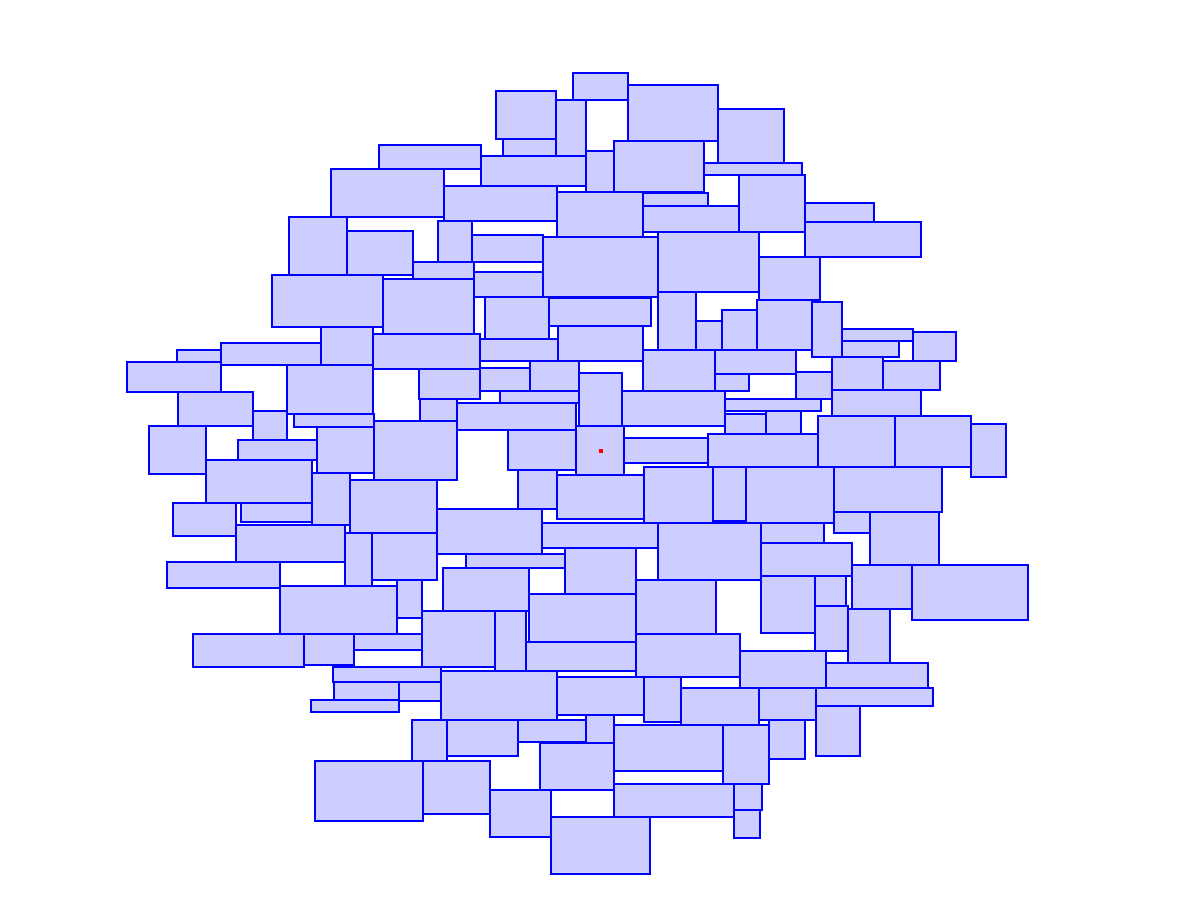
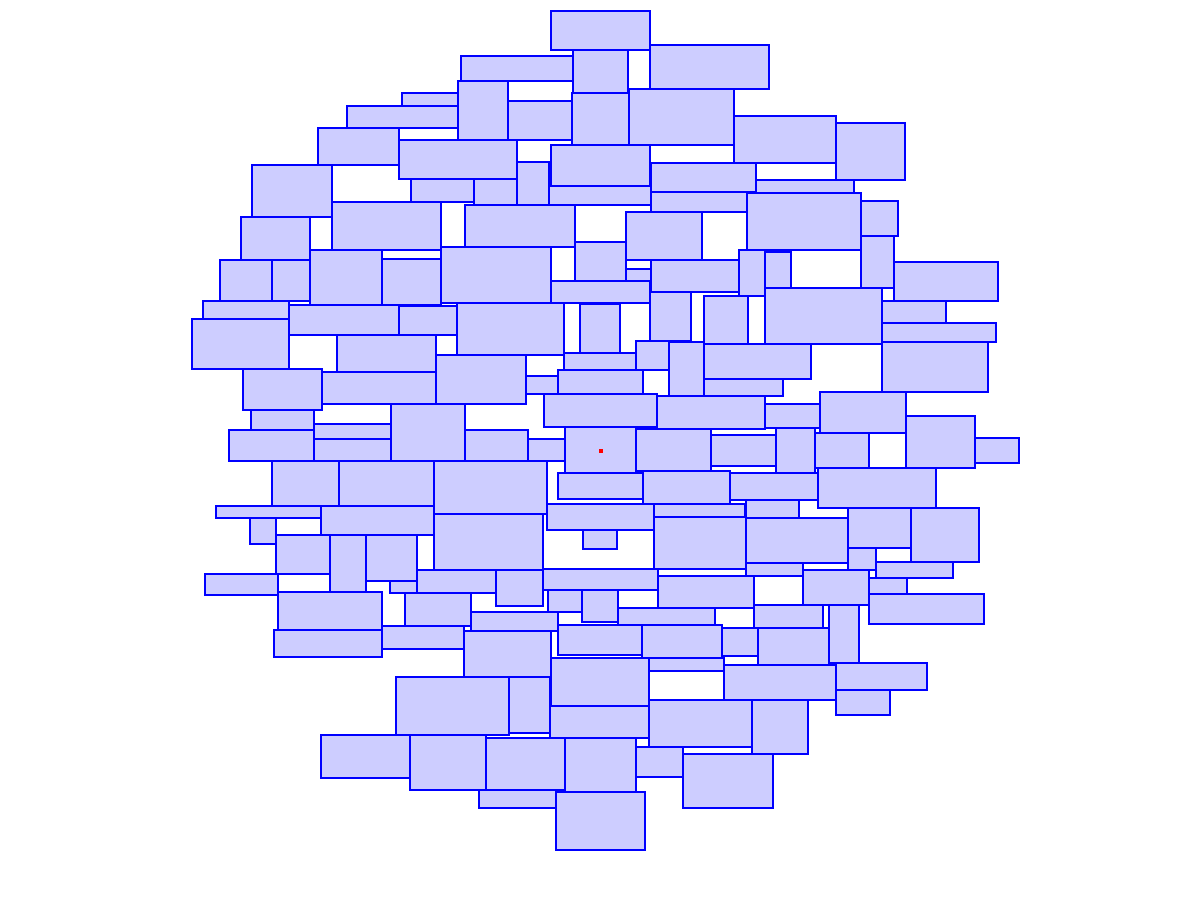
fix TagCloudVisualizer

Changed region(s): [[0.0925, 0.0, 0.8633, 0.9956]]

diff --git a/cs/TagCloud/TagsCloudVisualization/TagCloudVisualizer.cs b/cs/TagCloud/TagsCloudVisualization/TagCloudVisualizer.cs
@@ -2,42 +2,53 @@
 
 namespace TagsCloudVisualization;
 
-public class TagCloudVisualizer
+public class TagCloudVisualizer : IVisualizer
 {
-    private readonly string _outputDirectory;
-    private readonly Func<string, Size, Color?, Color?, Color?, ImageGenerator> _imageGeneratorFactory;
+    private const int DefaultWidth = 800;
+    private const int DefaultHeight = 600;
+    private const int Padding = 200;
+    
+    private readonly TagCloudVisualizeConfig _config;
+    private readonly IImageSaver _imageSaver;
 
-    public TagCloudVisualizer(string outputDirectory)
+    public TagCloudVisualizer(TagCloudVisualizeConfig config, IImageSaver imageSaver)
     {
-        _outputDirectory = outputDirectory;
-        _imageGeneratorFactory =
-            (path, size, bg, rect, center) => new ImageGenerator(path, size, bg, rect, center);
-        Directory.CreateDirectory(_outputDirectory);
+        _config = config ?? throw new ArgumentNullException(nameof(config));
+        _imageSaver = imageSaver ?? throw new ArgumentNullException(nameof(imageSaver));
     }
 
-    public string SaveLayoutVisualization(IEnumerable<Rectangle> rectangles, Point center, string fileName, Size? customImageSize = null)
+    public Bitmap CreateVisualization(IEnumerable<Rectangle> rectangles, Point center, Size? imageSize = null)
     {
-        try
+        var actualImageSize = imageSize ?? CalculateOptimalImageSize(rectangles);
+        var bitmap = new Bitmap(actualImageSize.Width, actualImageSize.Height);
+        using var graphics = Graphics.FromImage(bitmap);
+        
+        graphics.Clear(_config.BackgroundColor);
+        
+        using var pen = new Pen(_config.RectangleColor, _config.PenWidth);
+        using var brush = new SolidBrush(Color.FromArgb(_config.RectangleFillAlpha, _config.RectangleColor));
+        
+        foreach (var rectangle in rectangles)
         {
-            var filePath = Path.Combine(_outputDirectory, fileName);
-            var imageSize = customImageSize ?? CalculateOptimalImageSize(rectangles);
-            
-            var visualizer = _imageGeneratorFactory(
-                filePath, 
-                imageSize, 
-                Color.White, 
-                Color.Blue, 
-                Color.Red
-            );
+            graphics.FillRectangle(brush, rectangle);
+            graphics.DrawRectangle(pen, rectangle);
+        }
+        
+        using var centerBrush = new SolidBrush(_config.CenterColor);
+        var centerRect = new Rectangle(
+            center.X - _config.CenterPointSize / 2, 
+            center.Y - _config.CenterPointSize / 2, 
+            _config.CenterPointSize, 
+            _config.CenterPointSize);
+        graphics.FillEllipse(centerBrush, centerRect);
+        
+        return bitmap;
+    }
 
-            visualizer.Visualize(rectangles, center);
-            
-            return Path.GetFullPath(filePath);
-        }
-        catch (Exception ex)
-        {
-            throw new InvalidOperationException($"Failed to save visualization: {ex.Message}", ex);
-        }
+    public string SaveVisualization(IEnumerable<Rectangle> rectangles, Point center, string fileName, Size? imageSize = null)
+    {
+        using var bitmap = CreateVisualization(rectangles, center, imageSize);
+        return _imageSaver.SaveBitmap(bitmap, fileName);
     }
 
     private Size CalculateOptimalImageSize(IEnumerable<Rectangle> rectangles)
@@ -45,22 +56,16 @@ public class TagCloudVisualizer
         var rectList = rectangles.ToList();
         
         if (!rectList.Any())
-            return new Size(800, 600);
+            return new Size(DefaultWidth, DefaultHeight);
 
         var minX = rectList.Min(r => r.Left);
         var maxX = rectList.Max(r => r.Right);
         var minY = rectList.Min(r => r.Top);
         var maxY = rectList.Max(r => r.Bottom);
 
-        var width = Math.Max(800, (maxX - minX) + 200);
-        var height = Math.Max(600, (maxY - minY) + 200);
+        var width = Math.Max(DefaultWidth, (maxX - minX) + Padding);
+        var height = Math.Max(DefaultHeight, (maxY - minY) + Padding);
 
         return new Size(width, height);
-    }
-
-    public string GenerateFileName(string fileName)
-    {
-        var timestamp = DateTime.Now.ToString("yyyyMMdd_HHmmss");
-        return $"{fileName}_{timestamp}.png";
     }
 }

diff --git a/cs/TagCloud/TagsCloudVisualizationTests/CircularCloudLayouterTests.cs b/cs/TagCloud/TagsCloudVisualizationTests/CircularCloudLayouterTests.cs
@@ -10,6 +10,7 @@ public class CircularCloudLayouterTests
     private ILayouter layouter;
     private Point center;
     private TagCloudVisualizer testVisualizer;
+    private IImageSaver imageSaver;
 
     [SetUp]
     public void SetUp()
@@ -17,7 +18,10 @@ public class CircularCloudLayouterTests
         center = new Point(100, 100);
         layouter = new CircularCloudLayouter(center);
         var dir = Directory.CreateDirectory($"../../../../TagsCloudVisualizationTests/test_results");
-        testVisualizer = new TagCloudVisualizer(dir.FullName);
+        imageSaver = new ImageSaver(dir.FullName);
+        var visualizerConfig = TagCloudVisualizeConfig.Default;
+        testVisualizer = new TagCloudVisualizer(visualizerConfig, imageSaver);
+        
     }
     
     [TearDown]
@@ -28,8 +32,8 @@ public class CircularCloudLayouterTests
         try
         {
             var testName = TestContext.CurrentContext.Test.Name;
-            var fileName = testVisualizer.GenerateFileName(testName);
-            var filePath = testVisualizer.SaveLayoutVisualization(
+            var fileName = imageSaver.GenerateFileName(testName);
+            var filePath = testVisualizer.SaveVisualization(
                 layouter.PlacedRectangles, 
                 center, 
                 fileName

diff --git a/cs/TagCloud/TagsCloudVisualization/TagCloudVisualizeConfig.cs b/cs/TagCloud/TagsCloudVisualization/TagCloudVisualizeConfig.cs
@@ -1,0 +1,37 @@
+using System.Drawing;
+
+namespace TagsCloudVisualization;
+
+public class TagCloudVisualizeConfig
+{
+    public Size? ImageSize { get; }
+    public Color BackgroundColor { get; }
+    public Color RectangleColor { get; }
+    public Color CenterColor { get; }
+    public int PenWidth { get; }
+    public int CenterPointSize { get; }
+    public int RectangleFillAlpha { get; }
+
+    public TagCloudVisualizeConfig(
+        Color backgroundColor,
+        Color rectangleColor,
+        Color centerColor,
+        int penWidth = 2,
+        int centerPointSize = 5,
+        int rectangleFillAlpha = 50, 
+        Size? imageSize = null)
+    {
+        ImageSize = imageSize;
+        BackgroundColor = backgroundColor;
+        RectangleColor = rectangleColor;
+        CenterColor = centerColor;
+        PenWidth = penWidth;
+        CenterPointSize = centerPointSize;
+        RectangleFillAlpha = rectangleFillAlpha;
+    }
+    
+    public static TagCloudVisualizeConfig Default => new TagCloudVisualizeConfig(
+        backgroundColor: Color.White,
+        rectangleColor: Color.Blue,
+        centerColor: Color.Red);
+}

diff --git a/cs/TagCloud/TagsCloudVisualization/Program.cs b/cs/TagCloud/TagsCloudVisualization/Program.cs
@@ -1,5 +1,4 @@
 using System.Drawing;
-using TagsCloudVisualization;
 
 namespace TagsCloudVisualization.ConsoleApp;
 
@@ -8,10 +7,20 @@ class Program
     static void Main()
     {
         var dir = Directory.CreateDirectory($"../../../../TagsCloudVisualization/out");
-        var visualizer = new TagCloudVisualizer(dir.FullName);
+        
+        var visualizerConfig = new TagCloudVisualizeConfig(
+            backgroundColor: Color.White,
+            rectangleColor: Color.Blue,
+            centerColor: Color.Red);
+        
+        var visualizer = new TagCloudVisualizer(visualizerConfig, new ImageSaver(dir.FullName) );
         var sizeProvider = new RandomRectangleSizeProvider();
         var layouterFactory = (Point center) => new CircularCloudLayouter(center);
-        var tagCloudGenerator = new TagCloudGenerator(visualizer, layouterFactory, sizeProvider);
+        
+        var tagCloudGenerator = new TagCloudGenerator(
+            visualizer,
+            layouterFactory,
+            sizeProvider);
 
         Console.WriteLine("Generating tag cloud visualizations...");
         

diff --git a/cs/TagCloud/TagsCloudVisualization/ImageSaver.cs b/cs/TagCloud/TagsCloudVisualization/ImageSaver.cs
@@ -1,0 +1,34 @@
+using System.Drawing;
+using System.Drawing.Imaging;
+
+namespace TagsCloudVisualization;
+
+public class ImageSaver : IImageSaver
+{
+    private readonly string _outputDirectory;
+
+    public ImageSaver(string outputDirectory)
+    {
+        _outputDirectory = outputDirectory ?? throw new ArgumentNullException(nameof(outputDirectory));
+        Directory.CreateDirectory(_outputDirectory);
+    }
+    
+    public string GenerateFileName(string baseName)
+    {
+        var timestamp = DateTime.Now.ToString("yyyyMMdd_HHmmss");
+        return $"{baseName}_{timestamp}";
+    }
+
+    public string SaveBitmap(Bitmap bitmap, string fileName, ImageFormat format = null)
+    {
+        ArgumentNullException.ThrowIfNull(bitmap);
+
+        if (string.IsNullOrWhiteSpace(fileName))
+            throw new ArgumentException("File name cannot be empty", nameof(fileName));
+            
+        var filePath = Path.Combine(_outputDirectory, fileName);
+        bitmap.Save(filePath, format ?? ImageFormat.Png);
+        
+        return Path.GetFullPath(filePath);
+    }
+}

diff --git a/cs/TagCloud/TagsCloudVisualization/TagCloudGenerator.cs b/cs/TagCloud/TagsCloudVisualization/TagCloudGenerator.cs
@@ -4,12 +4,12 @@ namespace TagsCloudVisualization;
 
 public class TagCloudGenerator
 {
-    private readonly TagCloudVisualizer _visualizer;
+    private readonly IVisualizer _visualizer;
     private readonly Func<Point, ILayouter> _layouterFactory;
     private readonly IRectangleSizeProvider _sizeProvider;
 
     public TagCloudGenerator(
-        TagCloudVisualizer visualizer,
+        IVisualizer visualizer,
         Func<Point, ILayouter> layouterFactory,
         IRectangleSizeProvider sizeProvider)
     {
@@ -26,11 +26,11 @@ public class TagCloudGenerator
         foreach (var size in sizes)
             layouter.PutNextRectangle(size);
         
-        return _visualizer.SaveLayoutVisualization(
-            rectangles: layouter.PlacedRectangles, 
-            center: config.Center, 
+        return _visualizer.SaveVisualization(
+            rectangles: layouter.PlacedRectangles,
+            center: config.Center,
             fileName: config.OutputFileName,
-            customImageSize: config.ImageSize
+            imageSize: config.ImageSize
         );
     }
 

diff --git a/cs/TagCloud/TagsCloudVisualization/IVisualizer.cs b/cs/TagCloud/TagsCloudVisualization/IVisualizer.cs
@@ -1,0 +1,9 @@
+using System.Drawing;
+
+namespace TagsCloudVisualization;
+
+public interface IVisualizer
+{
+    Bitmap CreateVisualization(IEnumerable<Rectangle> rectangles, Point center, Size? imageSize = null);
+    string SaveVisualization(IEnumerable<Rectangle> rectangles, Point center, string fileName, Size? imageSize = null);
+}

diff --git a/cs/TagCloud/TagsCloudVisualization/IImageSaver.cs b/cs/TagCloud/TagsCloudVisualization/IImageSaver.cs
@@ -1,0 +1,10 @@
+using System.Drawing;
+using System.Drawing.Imaging;
+
+namespace TagsCloudVisualization;
+
+public interface IImageSaver
+{
+    string GenerateFileName(string baseName);
+    string SaveBitmap(Bitmap bitmap, string fileName, ImageFormat format = null);
+}
